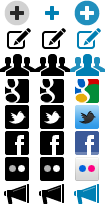
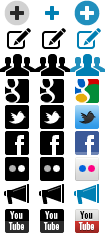
NR-257 : Add Youtube as a content provider for Livedesk
misc fixes

diff --git a/superdesk/plugins/livedesk/gui-resources/scripts/js/providers/youtube.js b/superdesk/plugins/livedesk/gui-resources/scripts/js/providers/youtube.js
@@ -19,6 +19,7 @@ define('providers/youtube', [
     ], function( providers, str, $ ) {
         $.extend(providers.youtube, {
             initialized: false,
+            
             data: [],
             init: function(){
                 if(!this.initialized) {
@@ -99,6 +100,24 @@ define('providers/youtube', [
                     $(where).append(o);
                 });
             },
+            
+            trimDesc : function(desc) {
+                if (desc.length > 200) {
+                    return desc.substring(0, 199) + ' ...;'
+                } else {
+                    return desc;
+                }
+            },
+            cleanContent : function(results) {
+                for(var i = 0; i < results.length; i ++) {
+                    if ( results[i].video ) {
+                        results[i].video.description = this.trimDesc(results[i].video.description);
+                    } else {
+                        results[i].description = this.trimDesc(results[i].description);
+                    }
+                }
+                return results;
+            },
             doSearch: function (start) {
                 var self = this;
                 var key = $('#youtube-search-text').val();
@@ -128,7 +147,7 @@ define('providers/youtube', [
                         if( start == 1 && total == 0) {
                             self.noResults('#ytb-src-results');
                         } else {
-                            $.tmpl('livedesk>providers/youtube/clip-item', {results : results}, function(e,o) {
+                            $.tmpl('livedesk>providers/youtube/clip-item', {results : self.cleanContent(results)}, function(e,o) {
                                 $('#ytb-src-results').append(o).find('.youtube').draggable({
                                     revert: 'invalid',
                                     helper: 'clone',
@@ -187,7 +206,7 @@ define('providers/youtube', [
                         if( start == 1 && total == 0) {
                             self.noResults('#ytb-fav-results');
                         } else {
-                            $.tmpl('livedesk>providers/youtube/favorite-item', {results : results}, function(e,o) {
+                            $.tmpl('livedesk>providers/youtube/favorite-item', {results : self.cleanContent(results)}, function(e,o) {
                                 $('#ytb-fav-results').append(o).find('.youtube').draggable({
                                     revert: 'invalid',
                                     helper: 'clone',
@@ -246,7 +265,7 @@ define('providers/youtube', [
                         if( start == 1 && total == 0) {
                             self.noResults('#ytb-usr-results');
                         } else {
-                            $.tmpl('livedesk>providers/youtube/clip-item', {results : results}, function(e,o) {
+                            $.tmpl('livedesk>providers/youtube/clip-item', {results : self.cleanContent(results)}, function(e,o) {
                                 $('#ytb-usr-results').append(o).find('.youtube').draggable({
                                     revert: 'invalid',
                                     helper: 'clone',

diff --git a/plugins/gui-core/gui-resources/styles/css/custom.css b/plugins/gui-core/gui-resources/styles/css/custom.css
@@ -699,6 +699,16 @@ section.main-section {
 	.active .big-icon-ads, .active a:hover .big-icon-ads { 
 		background-position: -70px -182px;
 		}	
+                
+.big-icon-youtube { 
+	background-position: 0 -208px;
+	}
+	a:hover .big-icon-youtube { 
+		background-position: -35px -208px;
+		}
+	.active .big-icon-youtube, .active a:hover .big-icon-youtube { 
+		background-position: -70px -208px;
+		} 
 		
 /*
 ====================================================
@@ -1531,6 +1541,6 @@ bootstrap.css (line 1929)
     z-index:2;
 }
 
-li.google .config-notif, li.ads .config-notif, li.flickr .config-notif  {
+li.google .config-notif, li.ads .config-notif, li.flickr .config-notif, li.youtube .config-notif  {
     display: none ! important; 
 }

diff --git a/superdesk/plugins/livedesk/gui-resources/scripts/js/providers/twitter/adaptor.js b/superdesk/plugins/livedesk/gui-resources/scripts/js/providers/twitter/adaptor.js
@@ -77,7 +77,7 @@ define('providers/twitter/adaptor', [
             }
         }
     });
-	return providers;
+    return providers;
 });
 
 
